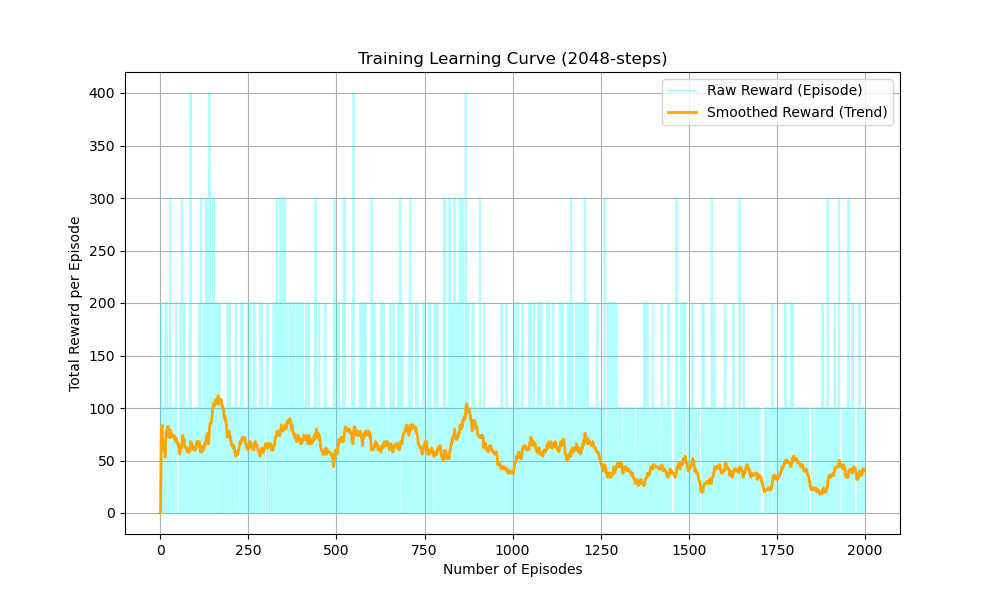
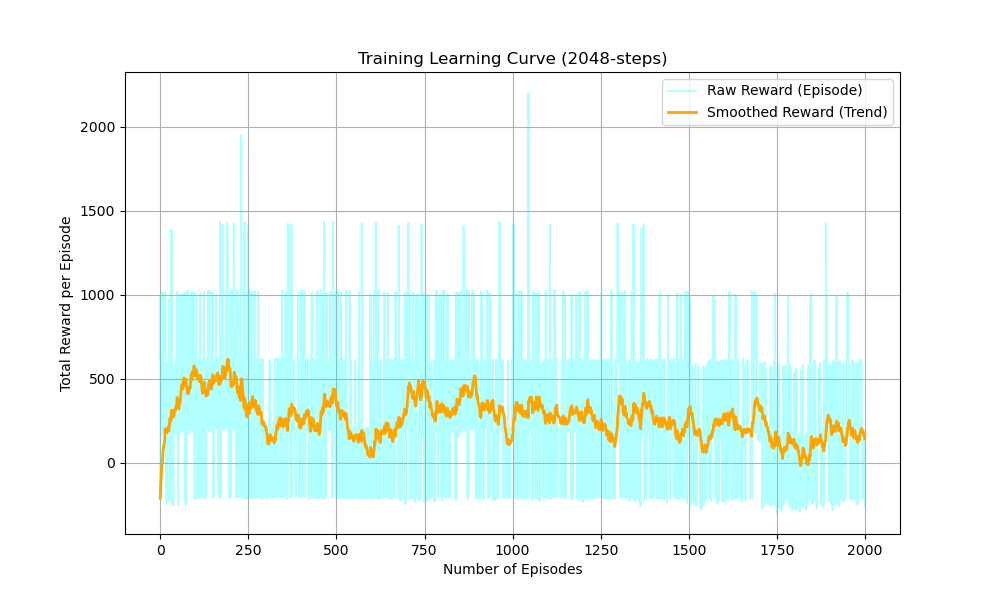
fix ppo

diff --git a/agent.py b/agent.py
@@ -17,7 +17,8 @@ class PPOAgent:
         state_tensor = torch.tensor(state, dtype=torch.float32).unsqueeze(0).to(params.device)
         
         with torch.no_grad():
-            dist, value = self.model(state_tensor)
+            dist = self.model.act(state_tensor)
+            value = self.model.critic(state_tensor)
 
         action = dist.sample()
 
@@ -29,44 +30,84 @@ class PPOAgent:
             'value': value.item()
         }
 
-    def update_model(self, states, actions, log_probs, rewards, masks, next_state_value):
-        old_states = torch.FloatTensor(np.array(states)).to(params.device)
-        old_actions = torch.FloatTensor(np.array(actions)).to(params.device)
-        old_logprobs = torch.FloatTensor(np.array(log_probs)).to(params.device)
+    def update_model(self, states, actions, log_probs, rewards, masks, values, next_state_value):
+        states = torch.FloatTensor(np.array(states)).to(params.device)
+        actions = torch.FloatTensor(np.array(actions)).to(params.device)
+        old_log_probs = torch.FloatTensor(np.array(log_probs)).to(params.device)
+        rewards = torch.FloatTensor(np.array(rewards)).to(params.device)
+        masks = torch.FloatTensor(np.array(masks)).to(params.device)
+        values = torch.FloatTensor(np.array(values)).to(params.device)
 
         returns = []
-        R = next_state_value
-        
-        for step in reversed(range(len(rewards))):
-            R = rewards[step] + params.gamma * R * masks[step]
-            returns.insert(0, R)
+        advantages = []
 
-        returns = torch.tensor(returns, dtype=torch.float32).to(params.device)
-        #chuẩn hóa: (z-mean)/std, 1e-7 để tránh trường hợp độ lệch chuẩn thành 0
-        returns = (returns - returns.mean()) / (returns.std() + 1e-7)
+        with torch.no_grad():
+            # Tính lại values cho chính xác (hoặc dùng values đã lưu)
+            _, current_values = self.model.evaluate(states)
+            current_values = current_values.squeeze()
+            
+            # Tính Returns và Advantages
+            returns = torch.zeros_like(rewards).to(params.device)
+            advantages = torch.zeros_like(rewards).to(params.device)
+            
+            running_return = 0
+            previous_value = 0
+            running_advantage = 0
+            
+            # Tính ngược từ cuối lên
+            for t in reversed(range(len(rewards))):
+                # 1. Tính Return (Reward-to-go) cho Critic học
+                running_return = rewards[t] + params.gamma * running_return * masks[t]
+                returns[t] = running_return
+                
+                # 2. Tính GAE cho Actor học (Ổn định hơn nhiều)
+                # Nếu là bước cuối cùng
+                if t == len(rewards) - 1:
+                    next_val = next_state_value 
+                else:
+                    # Nếu không, lấy value của bước kế tiếp trong batch
+                    next_val = values[t + 1]
+                    
+                delta = rewards[t] + params.gamma * next_val * masks[t] - current_values[t]
+                running_advantage = delta + params.gamma * 0.95 * running_advantage * masks[t] # 0.95 là GAE lambda
+                advantages[t] = running_advantage
+
+        # CHUẨN HÓA ADVANTAGE 
+        advantages = (advantages - advantages.mean()) / (advantages.std() + 1e-7)
 
         loss_value = 0
+        
         for _ in range(params.K_epochs):
-            dist, state_values = self.model(old_states)
+            # Evaluate lại state cũ để lấy log_prob mới và value mới
+            dist, state_values = self.model.evaluate(states)
             state_values = state_values.squeeze()
             
-            logprobs = dist.log_prob(old_actions).sum(dim=-1)
+            # Lấy log_prob của hành động cũ trên phân phối mới
+            curr_log_probs = dist.log_prob(actions).sum(dim=-1)
             dist_entropy = dist.entropy().sum(dim=-1)
-            ratios = torch.exp(logprobs - old_logprobs)
+            
+            # Tính tỷ lệ Ratio (pi_new / pi_old)
+            ratios = torch.exp(curr_log_probs - old_log_probs)
 
-            advantages = returns - state_values.detach()
-
+            # Tính Surrogate Loss
             surr1 = ratios * advantages
             surr2 = torch.clamp(ratios, 1 - params.eps_clip, 1 + params.eps_clip) * advantages
             
-            loss = -torch.min(surr1, surr2) + 0.5 * self.MseLoss(state_values, returns) - params.beta * dist_entropy
+            # Loss tổng hợp
+            # Actor loss: -min(...)
+            # Critic loss: MSE(new_value, returns)
+            # Entropy bonus: trừ đi để khuyến khích explore (hoặc cộng vào loss âm)
+            loss = -torch.min(surr1, surr2) + 0.5 * self.MseLoss(state_values, returns) - 0.01 * dist_entropy
 
             self.optimizer.zero_grad()
             loss.mean().backward()
+            
+            # Gradient Clipping (Tránh nổ gradient)
+            nn.utils.clip_grad_norm_(self.model.parameters(), 0.5)
+            
             self.optimizer.step()
             
             loss_value = loss.mean().item()
             
         return loss_value
-    
 

diff --git a/training.py b/training.py
@@ -25,6 +25,7 @@ class Training:
         log_probs = []
         rewards = []
         masks = []
+        values = []
 
         for episode in range(1, n_episode + 1):
             state, _ = self.env.reset()
@@ -33,7 +34,6 @@ class Training:
             step_count = 0
 
             while not done:
-               
                 res = self.agent.get_action(state)
                 action = res['action']
                 log_prob = res['log_prob']
@@ -47,6 +47,7 @@ class Training:
                 log_probs.append(float(log_prob)) # Ép kiểu log_prob
                 rewards.append(float(reward))    # Ép kiểu reward từ np.float64 -> float
                 masks.append(0.0 if terminated else 1.0)
+                values.append(value)
 
                 total_rewards += reward
                 state = next_state
@@ -59,8 +60,7 @@ class Training:
                         # Ép kiểu state sang float32 tensor trước khi đưa vào model
                         next_state_tensor = torch.tensor(next_state, dtype=torch.float32).unsqueeze(0).to(params.device)
                         with torch.no_grad():
-                            _, next_val = self.agent.model(next_state_tensor)
-                            # .item() trả về float chuẩn của Python
+                            _, next_val = self.agent.model.evaluate(next_state_tensor)
                             next_state_value = next_val.item()
 
                     self.agent.update_model(
@@ -69,10 +69,11 @@ class Training:
                         log_probs=log_probs,
                         rewards=rewards,
                         masks=masks,
-                        next_state_value=float(next_state_value)
+                        values=values,
+                        next_state_value=next_state_value
                     )
 
-                    states, actions, log_probs, rewards, masks = [], [], [], [], []
+                    states, actions, log_probs, rewards, masks, values = [], [], [], [], [], []
 
             # Lưu log và plot 
             if episode == 1:
@@ -87,5 +88,5 @@ class Training:
                 print(f"Episode {episode} \t Raw {total_rewards:.2f} \t Smooth {running_reward:.2f}")
 
         utils.save_model(self.agent)
-        utils.plot_learning_curve(raw_rewards=raw_history, smoothed_rewards=smoothed_history, save_path="result/training_curve")
+        utils.plot_learning_curve(raw_rewards=raw_history, smoothed_rewards=smoothed_history, save_path="result/training_curve.png")
         self.env.close()

diff --git a/model.py b/model.py
@@ -7,36 +7,49 @@ class PPO(nn.Module):
     def __init__(self, input_dim, action_dim):
         super(PPO, self).__init__()
 
-        self.shared = nn.Sequential(
-            nn.Linear(input_dim, params.hidden_dim),
+        # 1. CRITIC NETWORK (Đánh giá trạng thái)
+        self.critic = nn.Sequential(
+            nn.Linear(input_dim, 64),
             nn.Tanh(),
-            nn.Linear(params.hidden_dim, params.hidden_dim),
+            nn.Linear(64, 64),
             nn.Tanh(),
+            nn.Linear(64, 1)
         )
 
-        #actor mean tính giá trị góc bắn và lực trong khoảng [-1, 1]
-        self.actor_mean = nn.Sequential(
-            nn.Linear(params.hidden_dim, action_dim),
-            nn.Tanh()
+        # 2. ACTOR NETWORK (Quyết định hành động)
+        self.actor = nn.Sequential(
+            nn.Linear(input_dim, 64),
+            nn.Tanh(),
+            nn.Linear(64, 64),
+            nn.Tanh(),
+            nn.Linear(64, action_dim),
+            nn.Tanh() # Output [-1, 1]
         )
 
         #actor log std tính log độ lệch chuẩn, khởi đầu độ lệch chuẩn là 1 (e^0)
         #tính log nhằm loại bỏ dấu âm std
-        self.actor_log_std = nn.Parameter(torch.zeros(1, action_dim) + 0.5)
-
-        self.critic = nn.Linear(params.hidden_dim, 1)
+        self.actor_log_std = nn.Parameter(torch.zeros(1, action_dim) - 0.5)
 
     def forward(self, state):
-        x = self.shared(state)
+        raise NotImplementedError
+    
+    def act(self, state):
+        """Dùng khi lấy action để chơi"""
+        action_mean = self.actor(state)
+        action_log_std = self.actor_log_std.expand_as(action_mean)
+        action_std = torch.exp(action_log_std)
         
-        mean = self.actor_mean(x)
+        dist = Normal(action_mean, action_std)
+        
+        return dist
 
-        #chuyển log std -> std
-        std = torch.exp(self.actor_log_std.expand_as(mean))
-
-        #tạo phân phối chuẩn theo mean và std
-        dist = Normal(mean, std)
-
-        value = self.critic(x)
-
-        return dist, value
+    def evaluate(self, state):
+        """Dùng khi update model (trả về cả dist và value)"""
+        action_mean = self.actor(state)
+        action_log_std = self.actor_log_std.expand_as(action_mean)
+        action_std = torch.exp(action_log_std)
+        
+        dist = Normal(action_mean, action_std)
+        state_value = self.critic(state)
+        
+        return dist, state_value

diff --git a/reward_wrapper.py b/reward_wrapper.py
@@ -47,8 +47,8 @@ class RewardWrapper(gym.Wrapper):
             
             # Thưởng "tiệm cận": Khoảng cách càng gần, reward càng tăng nhẹ
             # Công thức: 1 / (khoảng cách + 1) để tránh chia cho 0
-            if current_min_dist < 80:
-                proximity_reward = 0.05 * (1.0 - (current_min_dist / 80.0))
+            if current_min_dist < 800:
+                proximity_reward = 0.05 * (1.0 - (current_min_dist / 800.0))
                 reward += proximity_reward
 
         # 3. Phạt "Idle" (Không làm gì)

diff --git a/testing.py b/testing.py
@@ -29,7 +29,7 @@ class Testing():
                 
             # Chỉ cần lấy action từ model, không cần tính toán loss
             with torch.no_grad():
-                dist, _ = self.agent.model(state_tensor)
+                dist= self.agent.model.act(state_tensor)
                 action = dist.mean
 
                 action = action.cpu().numpy().flatten()
